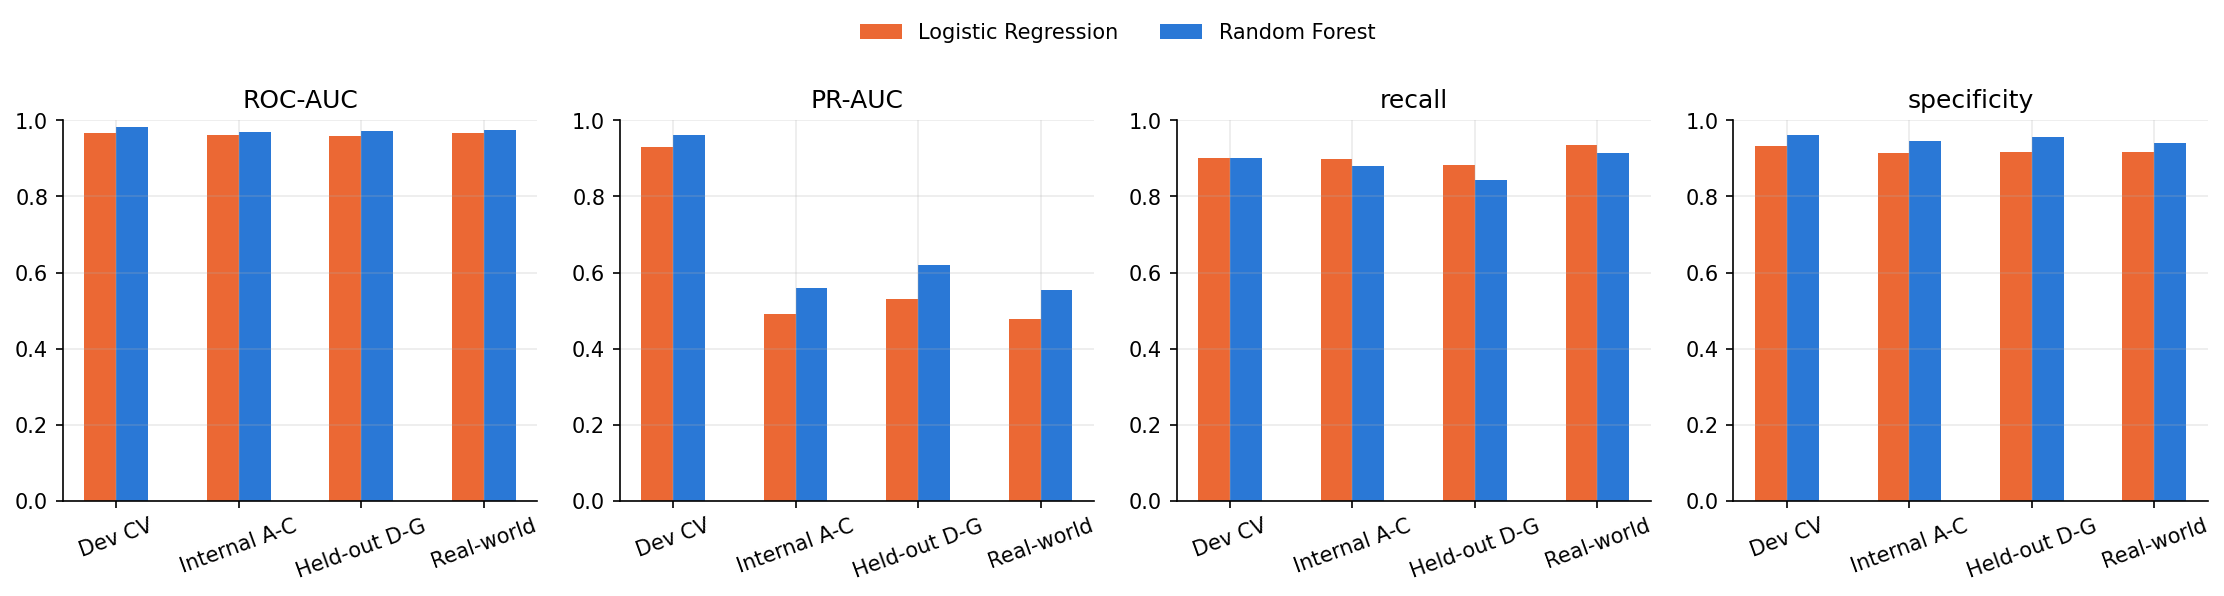
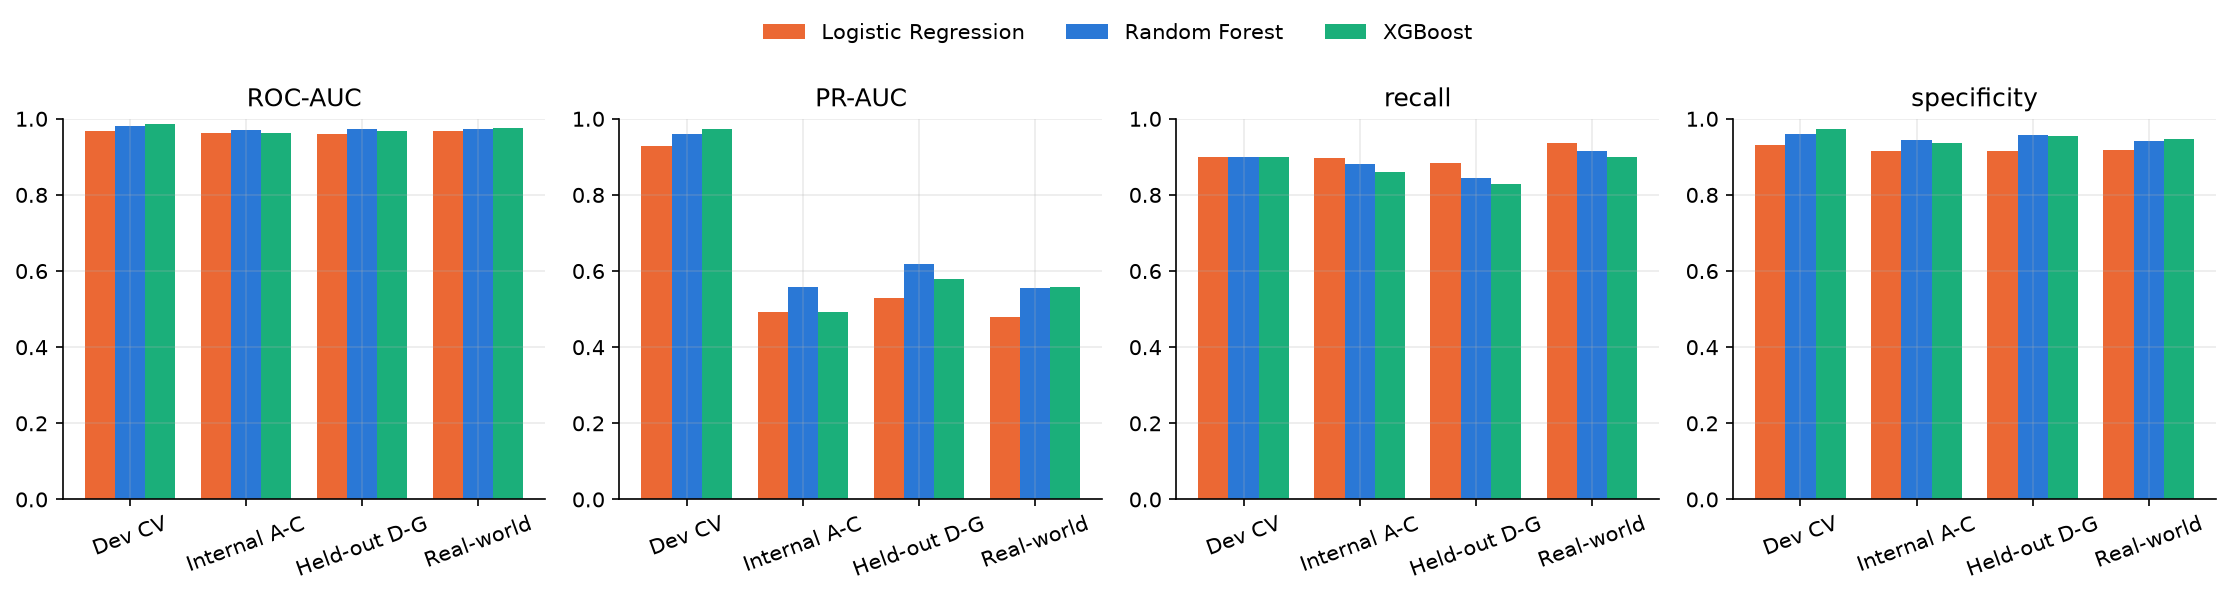
Document RQ2 findings and integrate XGBoost into the final comparison

diff --git a/notebooks/08_Final_Model_Comparison.py b/notebooks/08_Final_Model_Comparison.py
@@ -60,7 +60,7 @@ headline = final[final["site"].isin(["A+B+C", "pooled", "RW"])]
 headline.to_csv(TAB_DIR / "FINAL_model_comparison_headline.csv", index=False)
 display(headline.round(3))
 if "XGBoost" not in available:
-    print("\nXGBoost: no results file yet, so its rows are missing (Member 3 to add XGB_results_at_threshold.csv).")
+    print("\nRun python notebooks/09_XGBoost.py to generate the XGBoost results and predictions.")
 
 # %% [markdown]
 # ## 2. Held-out hospitals D-G: per-hospital comparison
@@ -103,8 +103,12 @@ pair_rows = []
 names = available
 for i, a in enumerate(names):
     for b in names[i + 1:]:
-        common = preds[a].index.intersection(preds[b].index)
+        common = preds[a].index
+        if not common.is_unique or not preds[b].index.is_unique or set(common) != set(preds[b].index):
+            raise ValueError(f"{a} and {b} must contain the same unique held-out record IDs.")
         ya = preds[a].loc[common, "y"].to_numpy().astype(int)
+        if not np.array_equal(ya, preds[b].loc[common, "y"].to_numpy().astype(int)):
+            raise ValueError(f"{a} and {b} disagree on held-out labels.")
         pa, pb = preds[a].loc[common, "p"].to_numpy(), preds[b].loc[common, "p"].to_numpy()
         auc_a, auc_b, z, p_roc = delong_test(ya, pa, pb)
         d_pr, lo, hi, p_pr = bootstrap_diff(ya, pa, pb, average_precision_score, n_boot=N_BOOT)
@@ -146,6 +150,6 @@ plt.savefig(FIG_DIR / "FINAL_model_comparison.png", bbox_inches="tight")
 # ## 5. Summary
 
 # %%
-rows = headline[headline["site"].isin(["A+B+C", "pooled D-G", "RW"])]
+rows = headline[headline["site"].isin(["A+B+C", "pooled", "RW"])]
 print("Models in this comparison:", ", ".join(available))
 display(rows[["model", "cohort", "site", "recall", "specificity", "ROC_AUC", "PR_AUC"]].round(3))

diff --git a/docs/member3_results_summary.md b/docs/member3_results_summary.md
@@ -1,0 +1,56 @@
+# Member 3 results and RQ2
+
+## XGBoost evaluation
+
+The model uses the 71 cleaned CBC measurements and a binary indicator for each measurement with missing training values. Median imputation, missing indicators, weighting and optional SMOTE were fitted inside each training fold. The five shared development folds were used for tuning, imbalance selection and threshold selection. Internal validation, held-out hospitals D–G and the real-world test set were evaluated after those choices were frozen. See the [common validation protocol](validation_protocol.md).
+
+The untuned baseline had pooled out-of-fold ROC-AUC **0.9784** and PR-AUC **0.9540**. The 16-configuration sweep selected depth 5, 300 trees, a learning rate of 0.10 and a minimum child weight of 5 under the one-standard-error rule. At that configuration, the unweighted model had the highest mean fold PR-AUC (0.97319), with class weighting close enough (0.97291) to retain it under the team's tie-break rule. The frozen decision threshold was **0.75384992**, which gave 90.0% pooled development recall.
+
+| Cohort | Records | Prevalence | ROC-AUC | PR-AUC | Recall | Precision | Specificity |
+|---|---:|---:|---:|---:|---:|---:|---:|
+| Development, pooled out-of-fold | 26,922 | 33.3% | 0.9874 | 0.9727 | 90.0% | 94.3% | 97.3% |
+| Internal A–C, pooled | 211,611 | 3.7% | 0.9639 | 0.4923 | 85.9% | 34.2% | 93.6% |
+| Held-out D–G, pooled | 149,623 | 3.9% | 0.9682 | 0.5798 | 82.9% | 43.1% | 95.6% |
+| Real-world test | 58,481 | 3.9% | 0.9752 | 0.5590 | 90.0% | 40.4% | 94.6% |
+
+On D–G, the frozen threshold flagged 4,794 leukemia records and missed 990. It also flagged 6,330 non-leukemia records. Recall ranged from 81.0% at site E to 85.2% at site G. The full per-site and per-fold results, confusion matrices and comparison with Logistic Regression and Random Forest are available below.
+
+- [Baseline](../reports/tables/XGB_baseline_cv.csv), [tuning](../reports/tables/XGB_tuning.csv), [imbalance comparison](../reports/tables/XGB_imbalance_comparison.csv) and [CV folds](../reports/tables/XGB_cv_fold_results.csv)
+- [Full evaluation table](../reports/tables/XGB_results_at_threshold.csv), [ROC and precision–recall curves](../reports/figures/XGB_roc_pr.png) and [confusion matrices](../reports/figures/XGB_confusion_matrices.png)
+- [Three-model comparison](../notebooks/08_Final_Model_Comparison.ipynb) and [held-out paired tests](../reports/tables/FINAL_pairwise_tests_heldout_DG.csv)
+
+On the same D–G records, XGBoost ranked between Logistic Regression and Random Forest on both ROC-AUC and PR-AUC. Its PR-AUC was 0.051 higher than Logistic Regression (paired bootstrap 95% CI 0.039 to 0.063) and 0.039 lower than Random Forest (95% CI 0.028 to 0.049 lower). XGBoost had the lowest recall at the models' frozen thresholds (82.9% versus 88.3% for Logistic Regression and 84.4% for Random Forest). These thresholds were selected separately on development data.
+
+## RQ2 — Which CBC measurements drive predictions, and do they stay important across folds?
+
+Tree SHAP explains the fitted model's output in log-odds of the leukemia class. A positive contribution raises the model score relative to its SHAP baseline. A negative contribution lowers it. Applying the logistic function to the baseline plus all signed contributions reconstructs the model score. The [global analysis](../reports/tables/XGB_shap_global.csv) uses a fixed random sample of 4,000 D–G records (159 leukemia). The [beeswarm](../reports/figures/XGB_shap_beeswarm.png) shows individual model inputs. The [CBC importance chart](../reports/figures/XGB_shap_global.png) and fold rankings add each measurement's missingness contribution to its measurement contribution before taking the mean absolute value.
+
+| Measurement | Mean absolute SHAP, log-odds | Direction on the held-out sample |
+|---|---:|---|
+| Platelet count (PLT) | 0.750 | The lowest decile (median 47) averaged +0.753. The highest decile (median 391) averaged −0.762. |
+| Microcytic red cell measure (MicroR) | 0.388 | The low and high observed quartiles averaged −0.822 and +0.162, respectively. |
+| Red cell distribution width (RDW-CV) | 0.379 | The low and high observed quartiles averaged −0.669 and +0.286. |
+| Lymphocyte analyser channel (LY-X) | 0.365 | The low and high observed quartiles averaged −0.502 and +0.094. |
+| Neutrophil analyser channel (NEUT%&) | 0.358 | The low and high observed quartiles averaged +0.385 and −0.609. |
+| Red blood cell count (RBC) | 0.316 | The low and high observed quartiles averaged +0.204 and −0.335. |
+
+Platelets had almost twice the mean absolute contribution of the next measurement. Very low platelet counts raised the score on average, while higher counts generally lowered it. Low WBC also raised the score in the lowest decile (mean SHAP +0.276 at median WBC 2.44). The remaining deciles had negative mean contributions in this sample. The [direction profiles](../reports/figures/XGB_shap_direction.png) and [quartile table](../reports/tables/XGB_shap_direction.csv) summarize how contributions varied with observed values. They are descriptive averages over the records in each band.
+
+### Individual predictions
+
+The script chose cases near the median model score of each held-out confusion category. All four examples contain positive and negative contributions. Scores are compared with the frozen threshold of 0.7538.
+
+| Example | Score | How the contributions support the prediction |
+|---|---:|---|
+| [True positive, E](../reports/figures/XGB_shap_waterfall_TP.png) | 0.983 | Low WBC (1.59, +0.478) and MacroR (+0.407) helped raise the score. PLT lowered it (−0.405). |
+| [True negative, E](../reports/figures/XGB_shap_waterfall_TN.png) | 0.011 | NEUT#& (−0.707), NEUT%& (−0.691) and PLT (−0.678) pulled the score down despite a positive NE-WZ contribution (+0.497). |
+| [False positive, E](../reports/figures/XGB_shap_waterfall_FP.png) | 0.919 | NE-WX (+0.649), RDW-CV (+0.500) and NEUT%& (+0.432) helped push the score above the threshold despite PLT (−0.564). |
+| [False negative, F](../reports/figures/XGB_shap_waterfall_FN.png) | 0.407 | NE-WX strongly raised the score (+1.524). PLT (−0.896), NE-SSC (−0.511), LY-X (−0.432) and other negative effects kept the score below the threshold. |
+
+[Case metadata](../reports/tables/XGB_shap_examples.csv) and [signed contributions](../reports/tables/XGB_shap_example_contributions.csv) contain the full decompositions.
+
+### Stability and interpretation
+
+PLT ranked first in all five fold models. Nine measurements appeared in every fold's top ten: **PLT, RDW-CV, MicroR, LY-X, NEUT%&, RBC, NE-WX, LY-WZ and Fragments**. Fold pairs shared 9–10 of their top ten measurements. Their Spearman correlations across all 71 ranks ranged from **0.913 to 0.961**. Comparing the final model with each fold gave correlations of **0.958–0.976**. WBC appeared in only one fold's top ten and ranked 20th in the final model, so the consistency is strongest for the leading measurements. See the [feature-level stability table](../reports/tables/XGB_shap_stability.csv) and [model-pair comparisons](../reports/tables/XGB_shap_stability_pairs.csv).
+
+The fold models share training records, and the stability comparison uses the same D–G sample for every model. This measures sensitivity to the training fold. Stability at each hospital or on a different analyser would require a separate assessment. Correlated measurements can share attribution, and several highly ranked measurements are analyser-specific. The global and local results explain the fitted research model's behavior. Causal or clinical conclusions would require additional evidence.

diff --git a/README.md b/README.md
@@ -100,7 +100,19 @@ Phase 1 notebooks:
 - `01_EDA_and_Cleaning.ipynb`: cleaning and EDA
 - `02_Feature_Engineering.ipynb`: ratio features
 - `02b_Preprocessing_and_Scaling.ipynb`: scaling
-Notebooks 03 to 08 are for the models (Phase 2).
+Notebooks 03 to 08 cover Logistic Regression, Random Forest, and the shared evaluation. The Member 3 scripts train XGBoost and generate its SHAP explanations.
+
+### Reproduce XGBoost and SHAP
+
+Run from the repository root after installing `requirements.txt`.
+
+```bash
+python notebooks/09_XGBoost.py
+python notebooks/10_XGBoost_SHAP.py
+python -X utf8 tools/run_notebook.py notebooks/08_Final_Model_Comparison.py notebooks/08_Final_Model_Comparison.ipynb
+```
+
+The XGBoost run uses the checked-in cleaned data and shared split IDs. It writes the model bundle to `models/xgb_final.joblib`, predictions to `reports/predictions/`, and evaluation and SHAP outputs to `reports/tables/` and `reports/figures/`. See the [Member 3 results and RQ2 discussion](docs/member3_results_summary.md).
  
 ## How to Run
  
